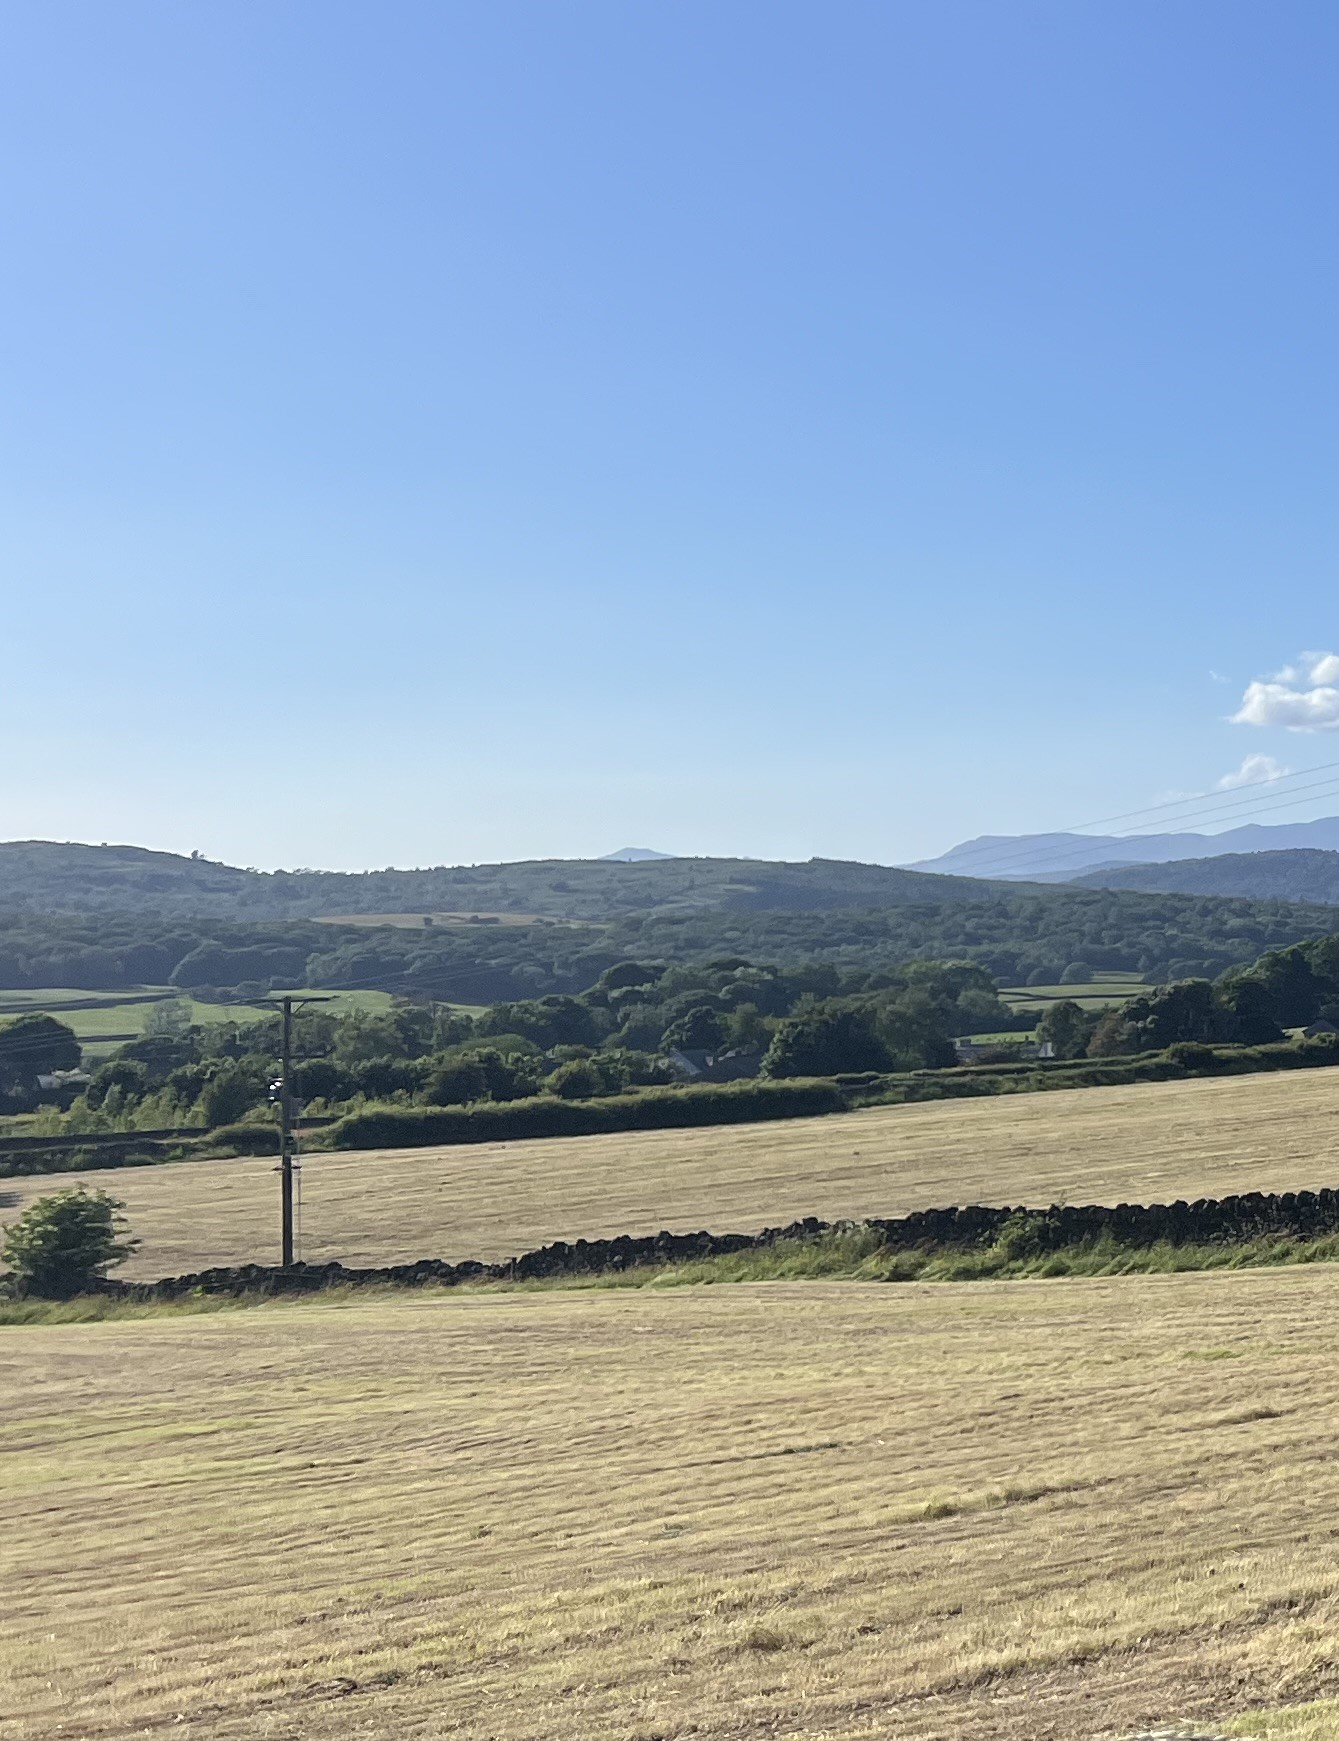
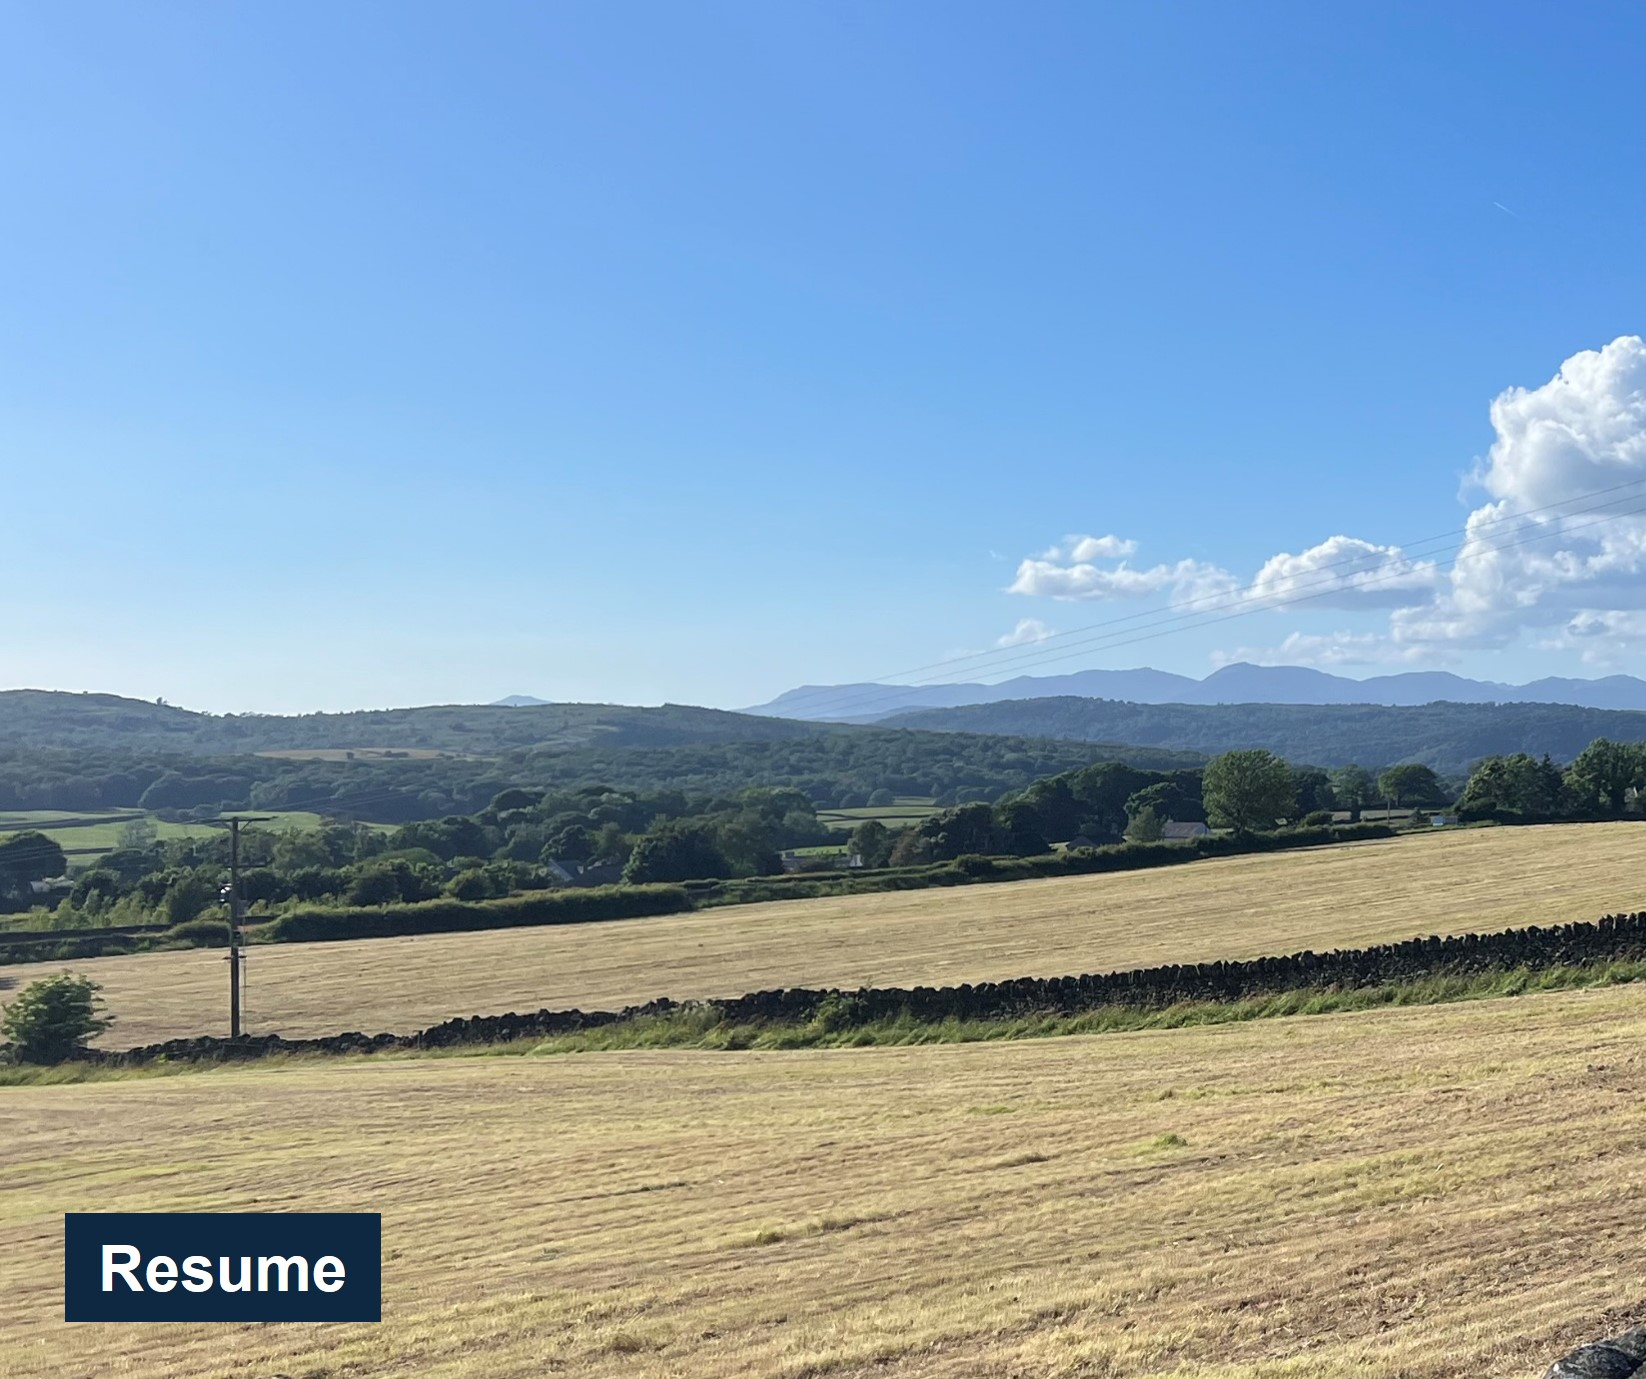
Simplified design

diff --git a/index.html b/index.html
@@ -10,36 +10,18 @@
   <!-- Navigation Bar -->
   <nav>
     <div class="nav-left"><a href="index.html">Edward Kerr</a></div>
-    <div class="nav-right">
-      <a href="cv.html">CV</a>
-      <a href="https://www.linkedin.com/in/edwardkerr-me/" target="_blank">LinkedIn</a>
-    </div>
-    <!-- Hamburger Button for Mobile -->
-    <div class="hamburger" id="hamburger-btn">
-        ☰
-      </div>
     </nav>  
-    <!-- Hidden Vertical Menu -->
-    <div class="nav-menu" id="nav-menu">
-    <a href="cv.html">CV</a>
-    <a href="https://www.linkedin.com/in/edwardkerr-me/" target="_blank">LinkedIn</a>
-    </div>
+
   
       <!-- Home Content with Images -->
   <div class="home-content">
     <div class="image-container">
-      <img src="images/image1.jpg" alt="Image 1">
+        <a href="cv.html"><img src="images/image1.jpg" alt="Resume"></a>
     </div>
     <div class="image-container">
-      <img src="images/image2.jpg" alt="Image 2">
-    </div>
-    <div class="image-container">
-      <img src="images/image3.jpg" alt="Image 3">
+        <a href="https://www.linkedin.com/in/edwardkerr-me/" target="_blank"><img src="images/image2.jpg" alt="LinkedIn"></a>
     </div>
   </div>
-
-  <!-- JavaScript for Hamburger Menu -->
-  <script src="script.js"></script>
 
 </body>
 </html>

diff --git a/cv.html b/cv.html
@@ -10,20 +10,6 @@
   <!-- Navigation Bar -->
   <nav>
     <div class="nav-left"><a href="index.html">Edward Kerr</a></div>
-    <div class="nav-right">
-      <a href="cv.html">CV</a>
-      <a href="https://www.linkedin.com/in/edwardkerr-me/" target="_blank">LinkedIn</a>
-    </div>
-    <!-- Hamburger Button for Mobile -->
-    <div class="hamburger" id="hamburger-btn">
-        ☰
-      </div>
-  
-      <!-- Hidden Vertical Menu -->
-      <div class="nav-menu" id="nav-menu">
-        <a href="cv.html">CV</a>
-        <a href="https://www.linkedin.com/in/edwardkerr-me/" target="_blank">LinkedIn</a>
-      </div>
     </nav>  
 
 

diff --git a/style.css b/style.css
@@ -77,7 +77,7 @@ body {
 .home-content {
     display: flex;
     justify-content: space-around;
-    padding: 40px;
+    padding: 0px 40px 40px 40px;
   }
   
   .image-container {
@@ -87,7 +87,8 @@ body {
   
   .image-container img {
     width: 100%;
-    height: 80%;
+    height: auto;
+    object-fit: cover;  
     border-radius: 0px;
     box-shadow: 0 2px 8px rgba(0, 0, 0, 0.1);
   }
